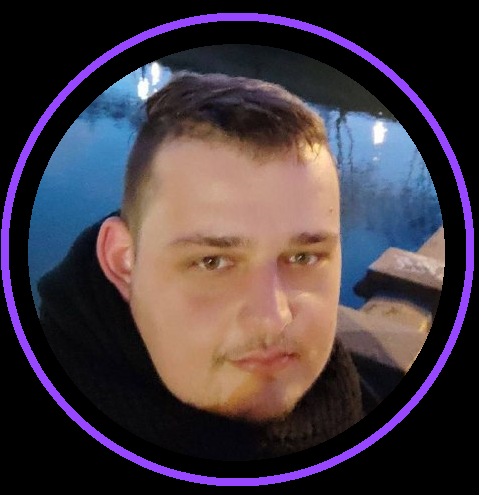
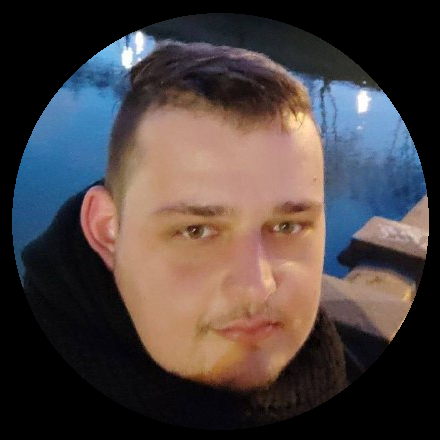
photo corections

diff --git a/style/about.css b/style/about.css
@@ -55,8 +55,35 @@
     flex-direction: column;
     align-items: center;
 }
-.user-photo {
+
+.photo-wrapper {
+     position: relative;
+    display: flex;
+    flex-direction: column;
+    align-items: center;
+    justify-content: center;
     width: 26.6vw;
+}
+
+.user-photo {
+   width: 26.6vw;
+}
+
+.photo-wrapper::before {
+    content: "";
+    width: 28vw;
+    height: 28vw;
+    position: absolute;
+    padding: 10px;
+    border-radius: 50%; 
+    background:linear-gradient(70deg,#6f00ff, #51ff01); 
+        animation: gradient 7s linear infinite;
+    background-size: 200% 200%;
+    -webkit-mask: 
+        linear-gradient(#fff 0 0) content-box, 
+        linear-gradient(#fff 0 0);
+    -webkit-mask-composite: xor;
+        mask-composite: exclude; 
 }
 .lenguage {
     display: flex;
@@ -244,6 +271,10 @@ b {
     .user-photo {
         width: 30vw;
     }
+    .photo-wrapper::before {
+        width: 33vw;
+        height: 33vw;
+    }
     .info-about-user {
         margin-top: 4vh;
         width: 64vw;
@@ -268,6 +299,11 @@ b {
 
     .user-photo {
         width: 40vw;
+    }
+
+    .photo-wrapper::before {
+        width: 43vw;
+        height: 43vw;
     }
 }
 
@@ -346,6 +382,11 @@ b {
     .user-photo {
         width: 50vw;
     }
+
+    .photo-wrapper::before {
+        width: 53vw;
+        height: 53vw;
+    }
 }
 
 @media (max-width: 455px) {
@@ -361,7 +402,7 @@ b {
 
 @media (max-width: 1024px) and (max-height: 800px) {
     .about {
-        margin-top: 300px;  
+        margin-top: 200px;  
     }
 }
 

diff --git a/index.html b/index.html
@@ -107,7 +107,10 @@
                         <h2 class="about-hedding">ABOUT ME</h2>
                         <div class="about-info">
                             <div class="about-user">
-                                <img class="user-photo" src="./images/about/photo.png" alt="user photo">
+                                <div class="photo-wrapper">
+                                    <img class="user-photo" src="./images/about/photo.png" alt="user photo">
+                                </div>
+                                
                                 <div class="lenguage">
                                     <p>Language:</p>
                                     <div class="lenguage-flag">

diff --git a/style/projects.css b/style/projects.css
@@ -1,7 +1,7 @@
 .projects {
     height: 100%;
     color: white;
-    margin-top: 180px;
+    margin-top: 100px;
     display: flex;
     flex-direction: column;
     align-items: center;

diff --git a/style/skills.css b/style/skills.css
@@ -1,7 +1,7 @@
 .skills {
     height: 100%;
     color: white;
-    margin-top: 20vh;
+    margin-top: 10vh;
     display: flex;
     flex-direction: column;
     align-items: center;
